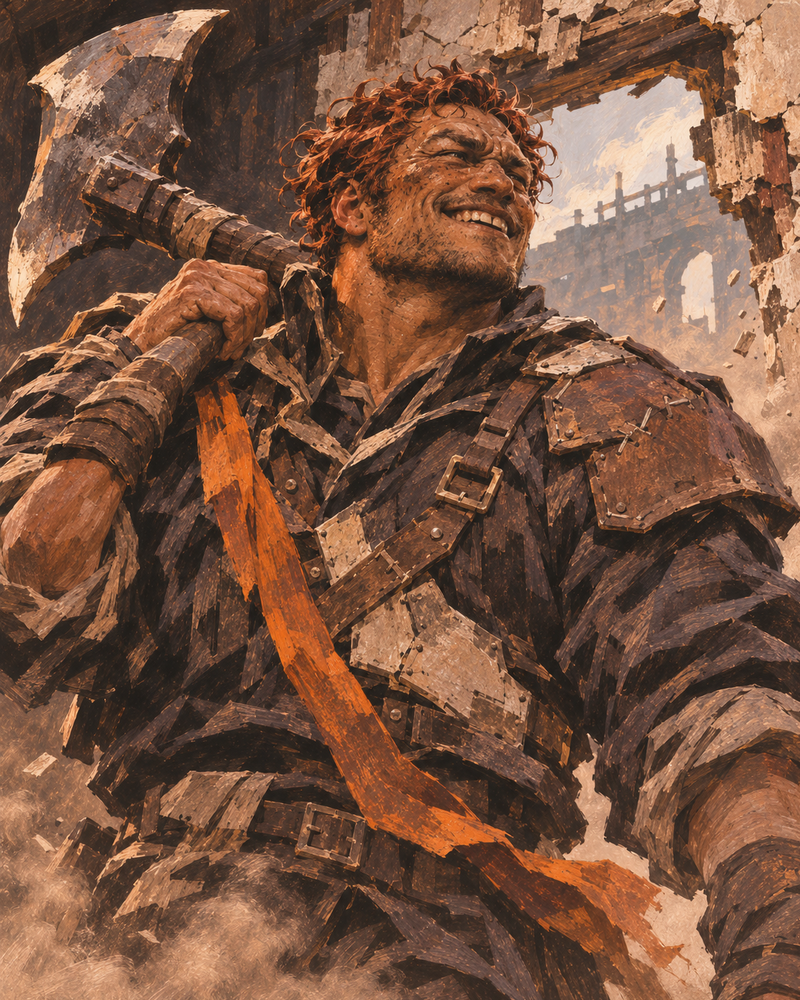
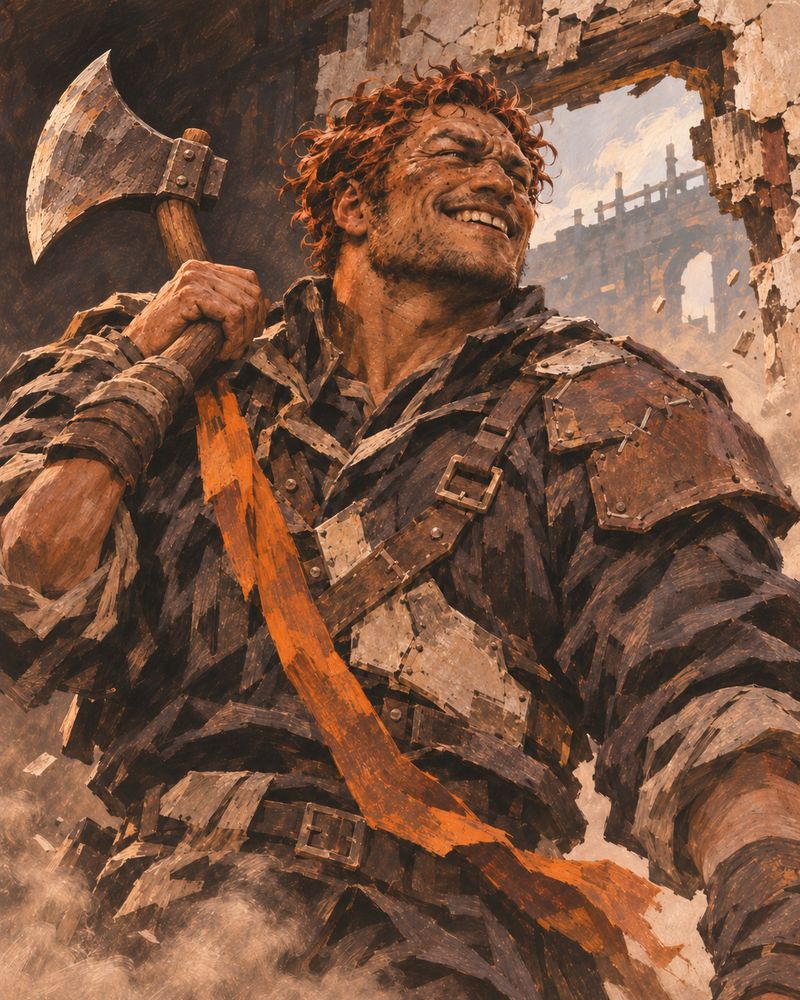
Deliver Nine Doors candidates 44; 316 legacy candidates total

diff --git a/art/_archive/nine-doors/2026-11-16/continuation-tools/update_state.py b/art/_archive/nine-doors/2026-11-16/continuation-tools/update_state.py
@@ -1,6 +1,8 @@
 from pathlib import Path
 from collections import Counter
 import argparse, hashlib, json, re, shutil
+from datetime import datetime
+from zoneinfo import ZoneInfo
 
 p=argparse.ArgumentParser();p.add_argument('--root',type=Path,required=True);p.add_argument('ids',type=int,nargs='+');args=p.parse_args()
 root=args.root.resolve();arc=root/'art/_archive/nine-doors/2026-11-16'
@@ -21,7 +23,8 @@ for n in args.ids:
         else:shutil.copy2(previous,dest)
         old.update(previous_path=dest.relative_to(root).as_posix(),previous_sha256=sha(dest))
     elif old and old.get('sha256')!=r['sha256']:
-        raise AssertionError('Archive an existing non-placeholder candidate before replacement')
+        prior=r.get('replaces_path');assert prior and r.get('replaces_sha256')==old['sha256'] and sha(root/prior)==old['sha256'],'Archive an existing non-placeholder candidate before replacement'
+        old.update(previous_path=prior,previous_sha256=old['sha256'])
     old.update(label=('Wick — ' if r['kind']=='wick' and 'Wick' in r['paint'] else '')+r['name'],path=r['path'],sha256=r['sha256'],width=r['export_dimensions'][0],height=r['export_dimensions'][1],background='transparent' if r['transparent'] else 'opaque',status='review-candidate',production_approved=False,implementation_ready=False,collection='nine-doors-2026-11-16',native_dimensions=r['native_dimensions'],source_path=r['source_path'],upscaled=False,format='png',mode=r['kind'],brief_number=n,exports=r.get('exports',{}))
     if r['kind'] in ['wick','sign']:old['ink']='#FFFFFF'
     old.pop('placeholder',None);old.pop('wanted',None)
@@ -52,7 +55,7 @@ continuation += ['', '## Held old recipes — do not paint','']+[f'- #{n} · {by
 continuation += ['', 'Already delivered and held for review: '+', '.join('#'+str(n) for n in sorted(held&done))+'. Preserve these files.','']
 (arc/'CONTINUE.md').write_text('\n'.join(continuation))
 scope=(arc/'CONTINUE-0.30.md').read_text();scope=re.sub(r'\*\*\d+/375 delivered\*\*',f'**{len(done)}/375 delivered**',scope);scope=re.sub(r'\*\*\d+ eligible \+ \d+ held\*\*',f'**{len(eligible)} eligible + {len(held-done)} held**',scope);scope=re.sub(r'\*\*\d+ request records\*\*',f'**{len(eligible)+new_remaining} request records**',scope);(arc/'CONTINUE-0.30.md').write_text(scope)
-report=f'''# Current continuation checkpoint — 16 November 2026
+report=f'''# Current continuation checkpoint — {datetime.now(ZoneInfo('Asia/Bangkok')).strftime('%d %B %Y')}
 
 Legacy delivery: {len(done)}/375 review candidates. Unfinished old rows: {len(remaining)}, of which {len(eligible)} eligible and {len(held-done)} held. New 0.30 additions: {new_progress['completed_count']}/41 delivered. Combined outstanding request records: {len(eligible)+new_remaining}.
 

diff --git a/art/_archive/nine-doors/2026-11-16/continuation-tools/seal_batch.py b/art/_archive/nine-doors/2026-11-16/continuation-tools/seal_batch.py
@@ -25,7 +25,7 @@ write(a/'alpha-audit.json',{'method':'Faint alpha 9..119 / solid alpha >=250 mus
 scoped=subprocess.run([sys.executable,str(a/'validate-delivery.py'),'--root',str(r)],capture_output=True,text=True);assert scoped.returncode==0,scoped.stdout+scoped.stderr;(a/'continuation-scoped-check.txt').write_text(scoped.stdout+scoped.stderr)
 build=subprocess.run(['npm','run','assets'],cwd=r,capture_output=True,text=True);(a/'continuation-asset-build-check.txt').write_text(build.stdout+build.stderr)
 validation={'delivered':len(rows),'latest_candidate_ids':ids,'scoped_delivery_checks_pass':True,'all_ink_alpha_audit_pass':True,'changed_44px_repository_checks_pass':True,'full_library_exit':1,'full_library_limitation':'Pre-existing historical production manifest expects seven bulwark exports; the prior Nine Doors replacement uses eight. No bulwark changes in this continuation. See continuation-full-library-check.txt.','asset_build_exit':build.returncode,'asset_build_result':build.stdout.strip().splitlines()[-1] if build.stdout.strip() else build.stderr[-500:],'approval':'review-candidate only; production_approved false; implementation_ready false','upscaled':False};write(a/'continuation-validation.json',validation)
-for name in ['update_state.py','export-one.py','review_ids.py','archive_draft.py','seal_batch.py']:shutil.copy2(w/name,a/'continuation-tools'/name)
+for name in ['update_state.py','export-one.py','review_ids.py','review_painted.py','archive_draft.py','seal_batch.py']:shutil.copy2(w/name,a/'continuation-tools'/name)
 baseline_path=a/'continuation-start.json'
 if not baseline_path.exists():
  base=json.loads(subprocess.check_output(['git','show','27bb94309f1c5f8343d8c2844b637819503eb503:art/_archive/nine-doors/2026-11-16/progress.json'],cwd=r));write(baseline_path,{'base_commit':'27bb94309f1c5f8343d8c2844b637819503eb503','completed_ids':base['completed_ids'],'completed_count':base['completed_count']})

diff --git a/art/_archive/nine-doors/2026-11-16/continuation-tools/review_painted.py b/art/_archive/nine-doors/2026-11-16/continuation-tools/review_painted.py
@@ -1,0 +1,14 @@
+from pathlib import Path
+from PIL import Image,ImageDraw,ImageFont
+import json,sys,math
+r=(Path(__file__).parent/'delivery').resolve();a=r/'art/_archive/nine-doors/2026-11-16';ids=list(map(int,sys.argv[1:]));rows=[json.loads((a/'records'/f'{n:03}.json').read_text()) for n in ids];cols=min(3,len(rows));out=Image.new('RGB',(cols*360,math.ceil(len(rows)/cols)*520),'#10151F');d=ImageDraw.Draw(out);font=ImageFont.truetype('/usr/share/fonts/truetype/dejavu/DejaVuSans.ttf',14)
+for i,rec in enumerate(rows):
+ im=Image.open(r/rec['path']);x=i%cols*360;y=i//cols*520
+ if rec['kind']=='gear':
+  im=im.convert('RGBA');sm=im.resize((320,320),Image.Resampling.LANCZOS);out.paste(sm,(x+20,y+10),sm)
+  for j,size in enumerate([32,64,128]):
+   sm=im.resize((size,size),Image.Resampling.LANCZOS);out.paste(sm,(x+15+j*110,y+360+(128-size)//2),sm);d.text((x+15+j*110,y+495),str(size),fill='white',font=font)
+ else:
+  sm=im.convert('RGB').resize((320,400),Image.Resampling.LANCZOS);out.paste(sm,(x+20,y+10));d.line((x+5,y+98,x+17,y+98),fill='#EB95B7',width=2);d.text((x+20,y+430),'4:5 / 800 x 1000; eye-line guide at22%',fill='#CBD0DB',font=font)
+ d.text((x+20,y+412 if rec['kind']!='gear' else y+335),f'{rec["number"]} {rec["name"]}',fill='white',font=font)
+p=a/'review'/('continuation-painted-'+'-'.join(map(str,ids))+'.jpg');out.save(p,quality=97);print(p)

diff --git a/art/_archive/nine-doors/2026-11-16/CURRENT-CHECKPOINT.md b/art/_archive/nine-doors/2026-11-16/CURRENT-CHECKPOINT.md
@@ -1,4 +1,4 @@
-# Current continuation checkpoint — 16 November 2026
+# Current continuation checkpoint — 17 November 2026
 
 Legacy delivery: 316/375 review candidates. Unfinished old rows: 59, of which 32 eligible and 27 held. New 0.30 additions: 0/41 delivered. Combined outstanding request records: 73.
 

diff --git a/art/_archive/nine-doors/2026-11-16/superseded/044-axe-head-geometry-fix/REJECTION.md b/art/_archive/nine-doors/2026-11-16/superseded/044-axe-head-geometry-fix/REJECTION.md
@@ -1,0 +1,1 @@
+User review: axe reads as an X. Replace the malformed/double-headed assembly with one single-bit axe head, one clear socket and one continuous haft. Preserve this rejected candidate and all source bytes.
